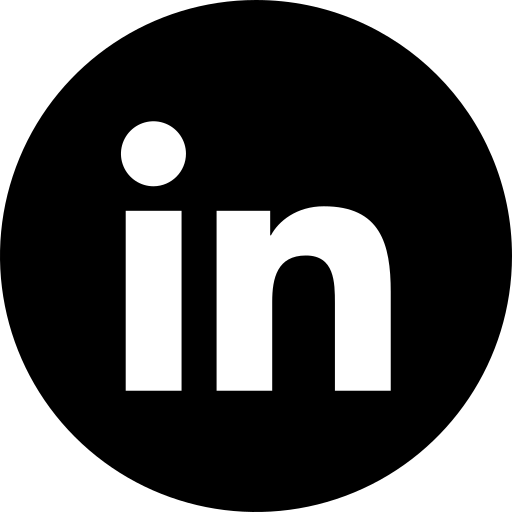
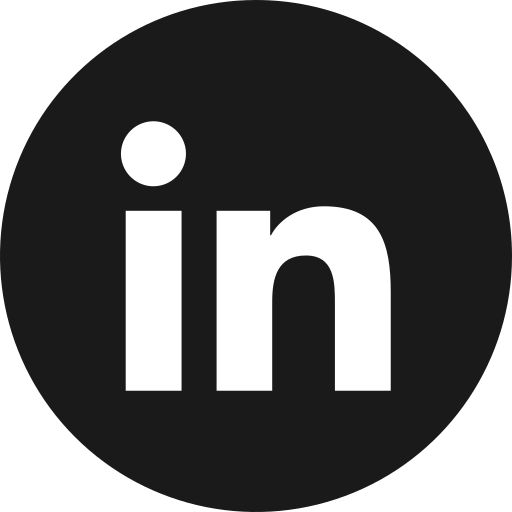
Corrección html y css (skills) - Ajuste de color íconos footer

diff --git a/index.html b/index.html
@@ -66,7 +66,8 @@
          </section>
          <section id="skills" class="skills">
             <article class="habilidades">
-               <p>Skills → diseño editorial ✦ identidad visual ✦ desarrollo de sistemas visuales ✦ composición tipográfica ✦ diseño de piezas para soportes impresos y digitales ✦ packaging y marca ← ✦ </p>
+               <h2>Skills</h2>
+               <p> → editorial ✦ identidad visual ✦ desarrollo de sistemas visuales ✦ composición tipográfica ✦ diseño de piezas para soportes impresos y digitales ✦ packaging y marca ←</p>
             </article>
             <article class="habilidades">
                <ul>
@@ -144,7 +145,7 @@
          </div>
          <ul>
             <li><a href="https://www.bifidaediciones.com.ar" target="_blank"><img src="img/bifida.png" alt="Bífida Ediciones" width="40" class="logos"></a></li>
-			 <li><a href="https://www.linkedin.com/in/cgdg" target="_blank"><img src="img/linkedin.png" alt="LinkedIn" width="40" class="logos"></a></li>
+            <li><a href="https://www.linkedin.com/in/cgdg" target="_blank"><img src="img/linkedin.png" alt="LinkedIn" width="40" class="logos"></a></li>
             <li><a href="https://www.behance.net/cgdg" target="_blank"><img src="img/behance.png" alt="Behance" class="logos" width="40"></a></li>
          </ul>
       </footer>

diff --git a/style.css b/style.css
@@ -201,6 +201,7 @@ nav ul {
 	gap: 2.5rem;
 	background-color: #CBCBCB;
 	justify-content: center;
+	align-items: flex-start;
 }
 
 .habilidades {
@@ -209,7 +210,8 @@ nav ul {
 
 .habilidades p {
 	font-size: 2rem;
-	line-height: 1.5; /* ver en todo el css y unificar rem */
+	line-height: 1.5;
+	/* ver en todo el css y unificar rem */
 	margin: 0;
 }
 
